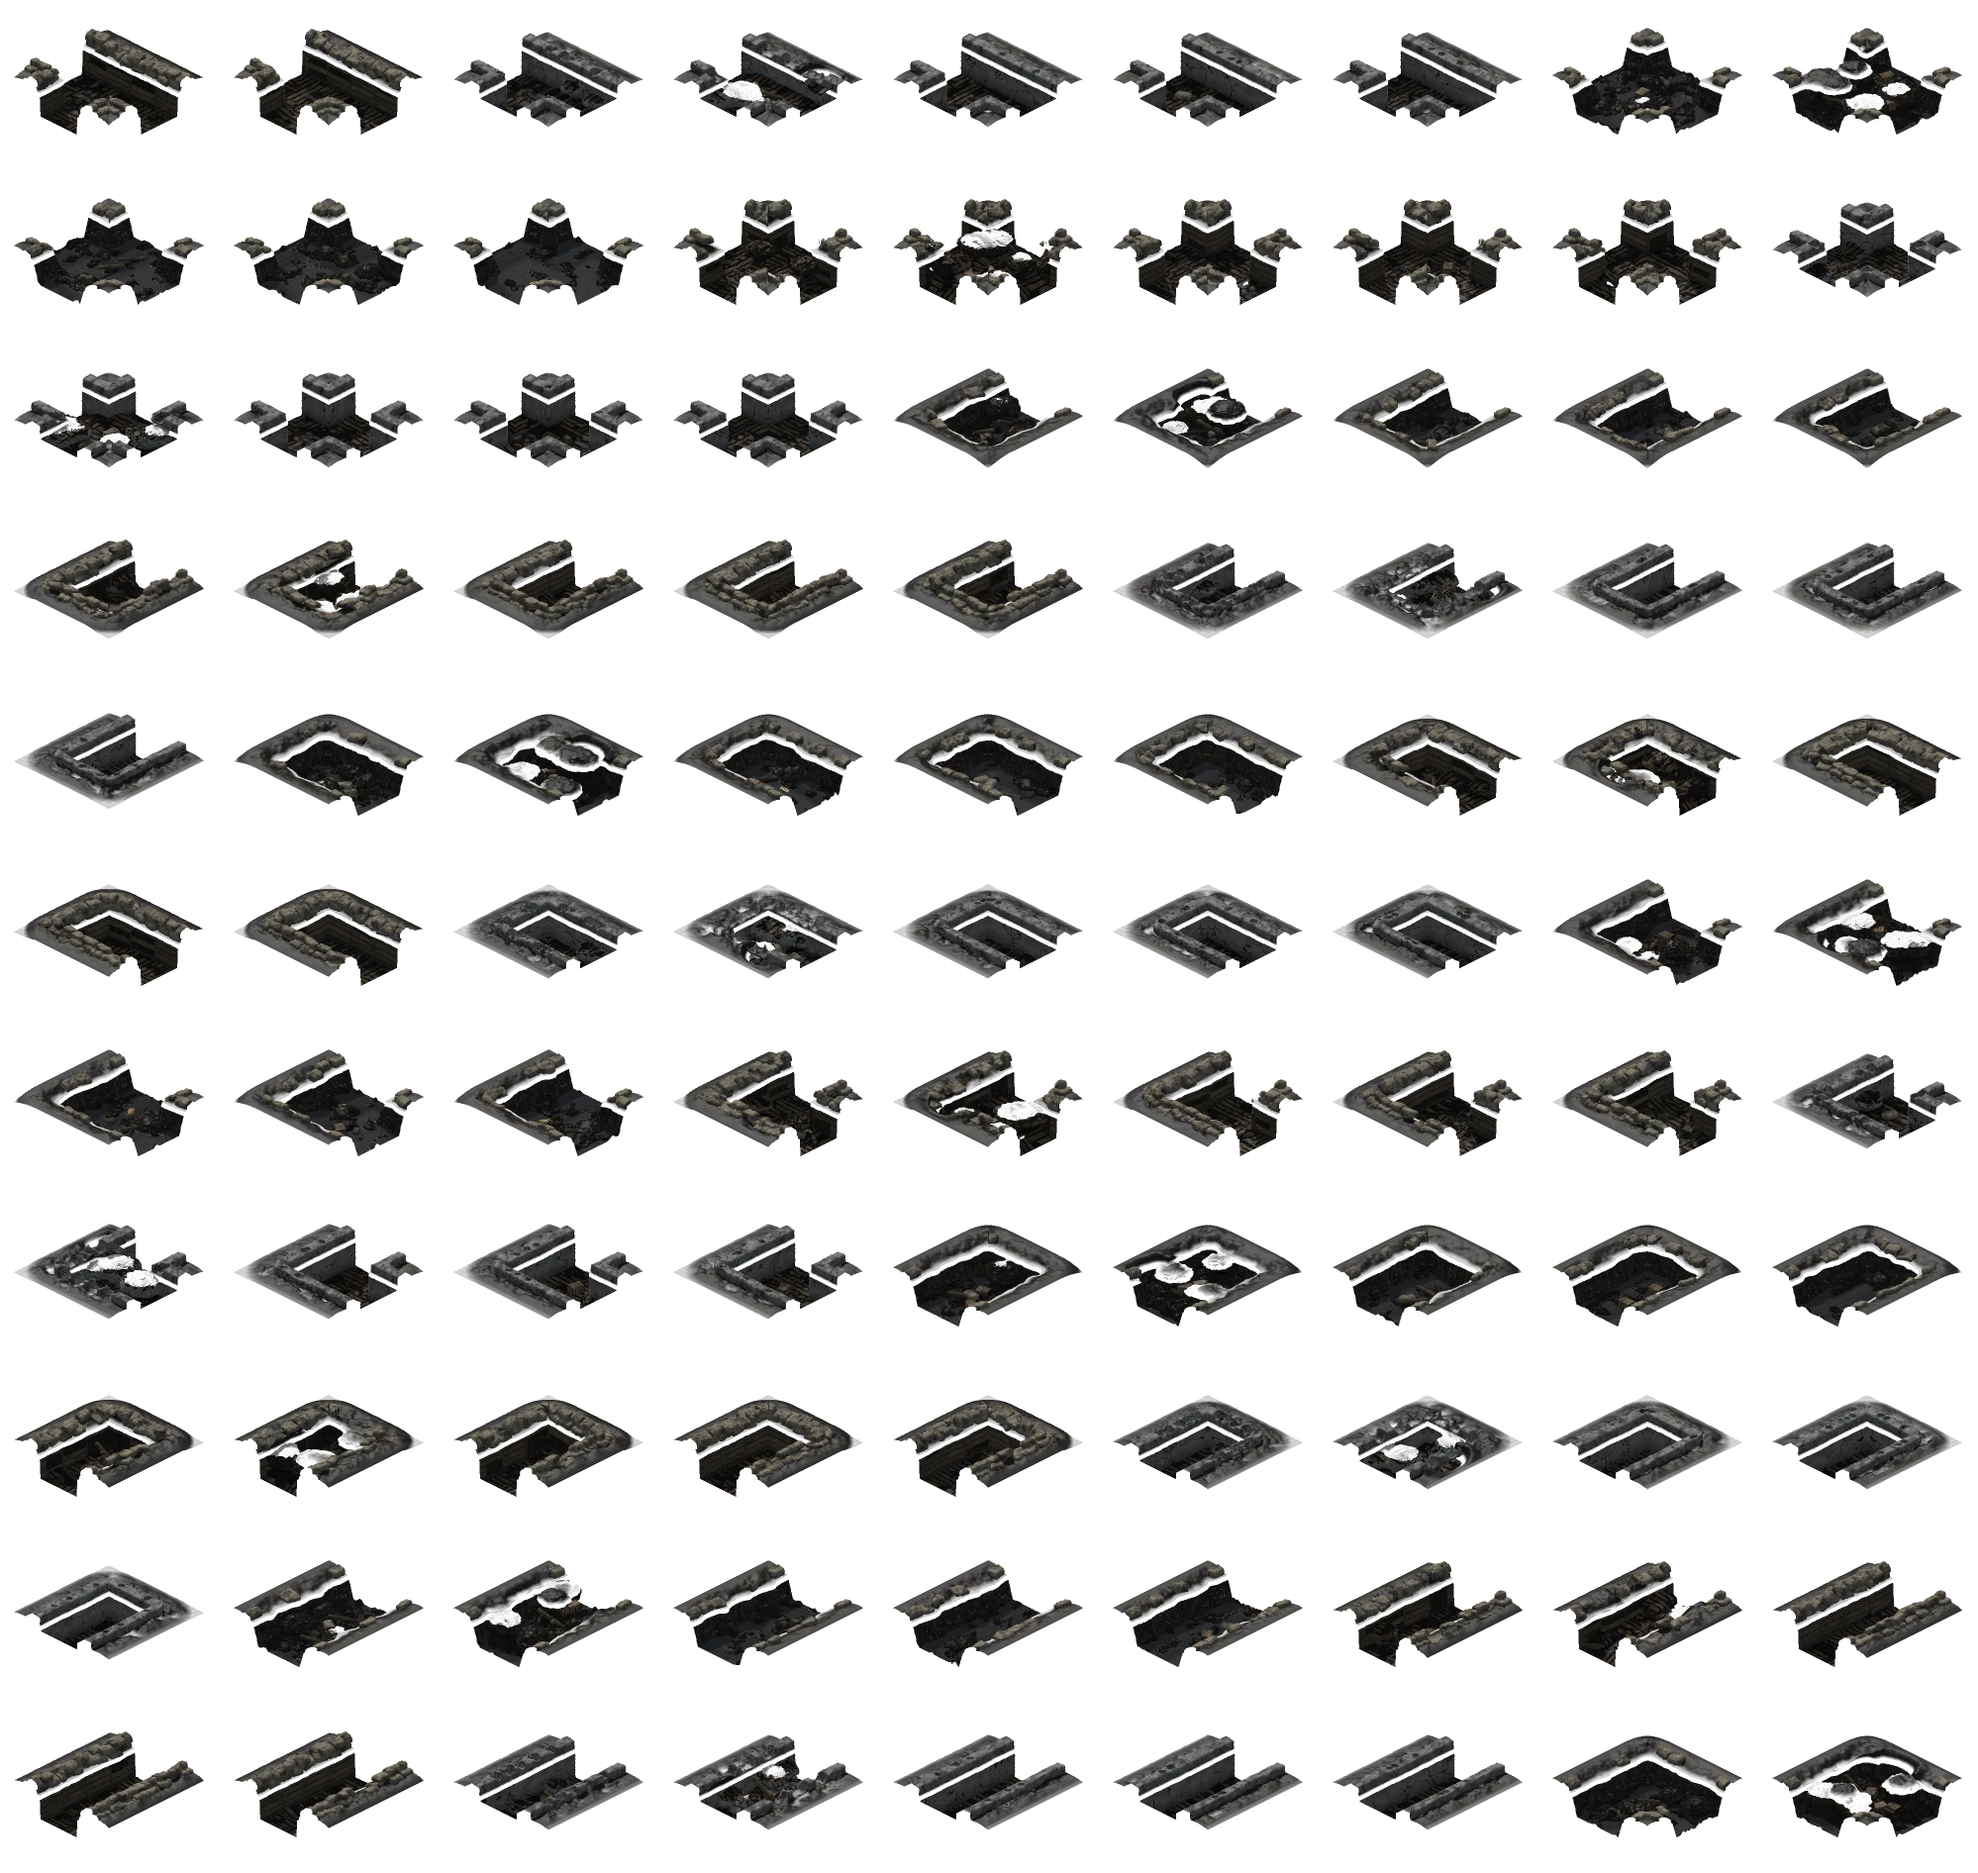
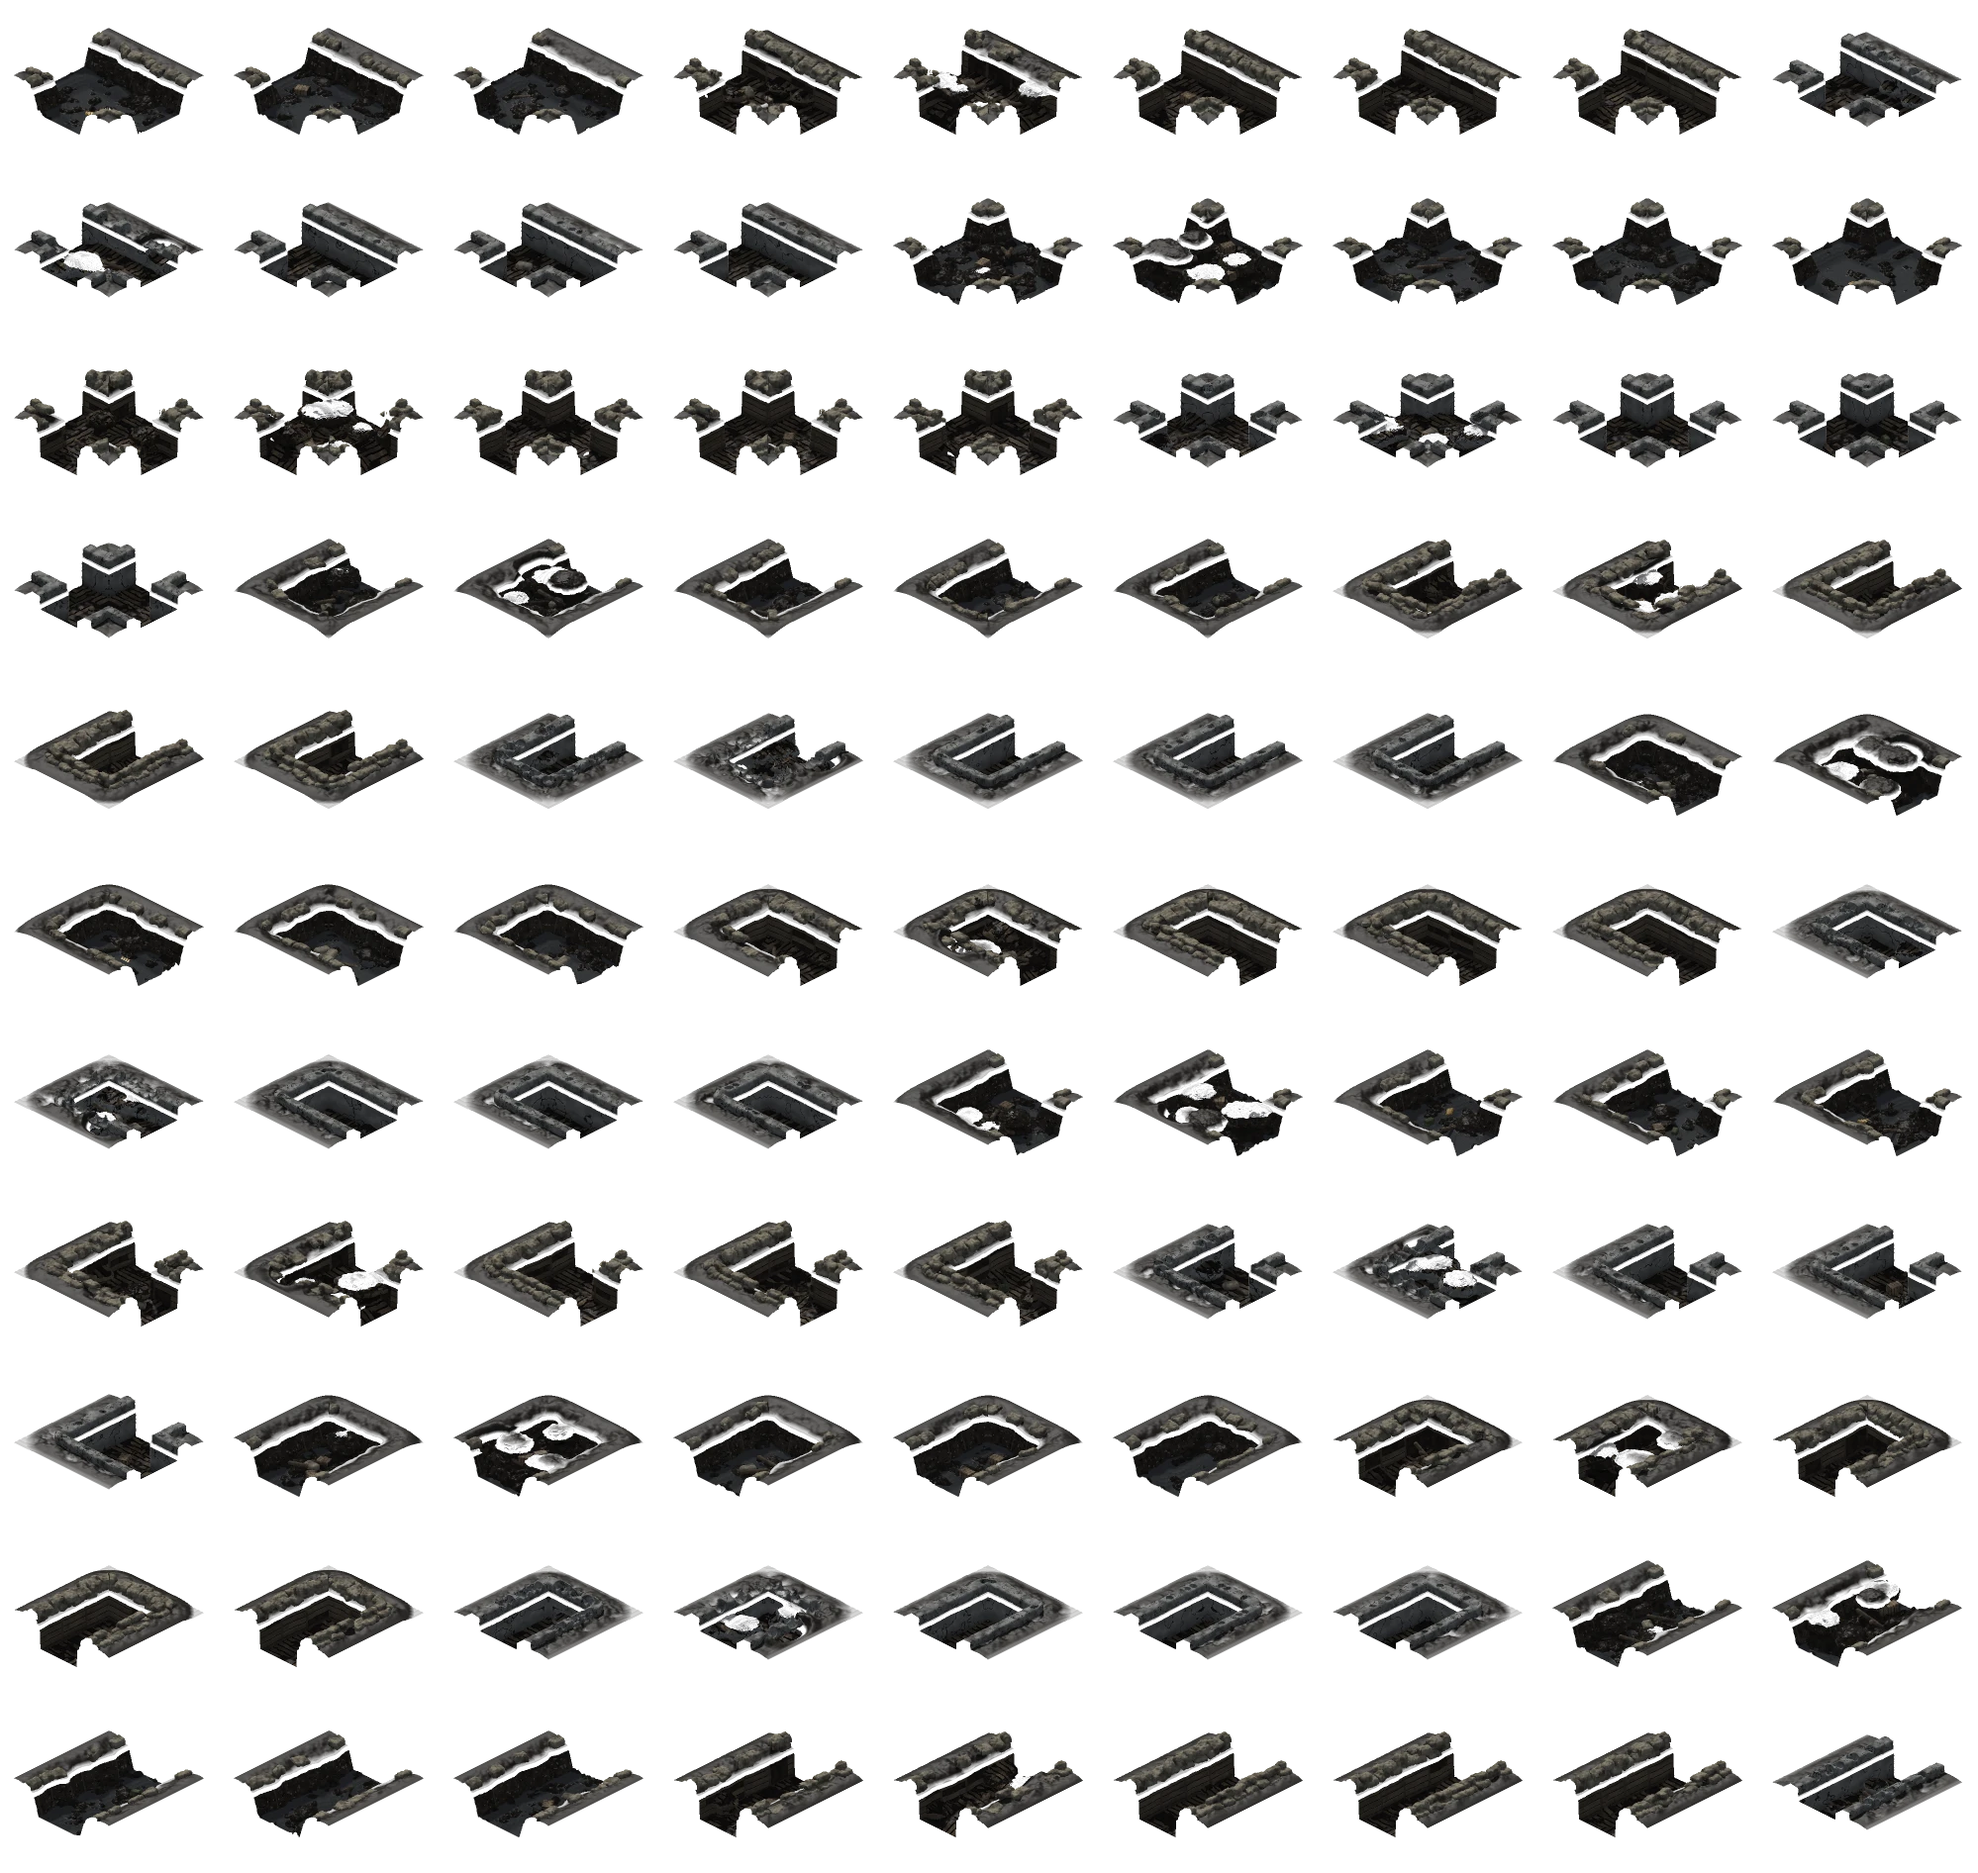
Silence the Guns: impassable snow-capped Alpine rock outcrops (pre-rendered), troops steer round them; the battle is set in the thaw
Claude-Session: https://claude.ai/code/session_01QRLYjet5i3xPK5hPmw42NL

diff --git a/src/campaign.js b/src/campaign.js
@@ -56,6 +56,38 @@ function relieve(state, team, nation) {
   return out;
 }
 
+/**
+ * Impassable rock outcrops (the Alpine karst): small clusters of 1-4 tiles, kept clear of trenches,
+ * wire, headquarters and troops, and apart from each other so men can always walk round them.
+ */
+function scatterRocks(state, count, seed) {
+  const { map } = state;
+  let r = seed >>> 0;
+  const rnd = () => ((r = (r * 1664525 + 1013904223) >>> 0) / 4294967296);
+  const near = (t, d, f) => { for (let y = t.y - d; y <= t.y + d; y++) for (let x = t.x - d; x <= t.x + d; x++) { const n = tileAt(map, x, y); if (n && f(n)) return true; } return false; };
+  const ok = (t) => t && !t.off && !t.trench && !t.wire && !t.rock && !t.build
+    && !near(t, 2, (n) => n.trench || n.wire) && !near(t, 3, (n) => n.rock)
+    && [map.hq[0], map.hq[1]].every((q) => Math.hypot(q.x - t.x, q.y - t.y) > 5)
+    && !state.units.some((u) => Math.hypot(u.x - t.x - 0.5, u.y - t.y - 0.5) < 2);
+  let placed = 0;
+  for (let tries = 0; tries < 2000 && placed < count; tries++) {
+    const t = map.tiles[Math.floor(rnd() * map.tiles.length)];
+    if (!ok(t)) continue;
+    const cluster = [t];
+    t.rock = 1 + Math.floor(rnd() * 4);
+    const extra = Math.floor(rnd() * 4);
+    for (let k = 0; k < extra; k++) {
+      const b = cluster[Math.floor(rnd() * cluster.length)], dir = [[1, 0], [-1, 0], [0, 1], [0, -1]][Math.floor(rnd() * 4)];
+      const n = tileAt(map, b.x + dir[0], b.y + dir[1]);
+      if (n && !n.off && !n.trench && !n.wire && !n.rock && !near(n, 1, (q) => q.trench || q.wire)) { n.rock = 1 + Math.floor(rnd() * 4); cluster.push(n); }
+    }
+    for (const c of cluster) { c.decor = null; c.crater = 0; }
+    placed++;
+  }
+  map.rocks = true;
+  map.dirty = true;
+}
+
 /** The trench tile of a team's line `off` tiles behind its front line in row y (front = 0, support = 7, reserve = 11). */
 function trenchBehind(map, team, y, off) {
   const f = frontLine(map, team), x0 = f[y] - teamDir(team) * off;
@@ -138,7 +170,7 @@ export const LEVELS = [
   },
   {
     id: 'isonzo', n: 2, title: 'Silence the Guns', place: 'The Isonzo, Italy', date: 'August 1916',
-    nations: ['italy', 'austria'], season: 'mud', start: 'west', startHour: 5,
+    nations: ['italy', 'austria'], season: 'thaw', start: 'west', startHour: 5,
     history: 'The Sixth Battle of the Isonzo. Five times the Italian army has thrown itself at the Austro-Hungarian line above the river, and five times it has been cut down by machine guns firing from concrete emplacements in the rock. This time the guns must be found and silenced first. Three nests command the whole sector; until they fall, no attack can cross the open ground. Your batteries have been given shells for only a handful of barrages: make every one count.',
     objectives: ['Silence all three machine-gun nests in the enemy lines.', 'Do it before nightfall on day 2.', 'Do not let the enemy take your headquarters.'],
     rules: ['The nests are concrete pillboxes, one in each of his three lines: front, support and reserve. Shellfire alone rarely finishes them: bombard, then send the infantry in while the crews are pinned.', 'The deeper nests lie beyond the reach of your guns from where they stand: take ground and bring the batteries forward.', 'Shells are rationed: 12 battery barrages for the whole battle.', 'The enemy holds deep wire and counter-attacks any trench he loses.'],
@@ -182,6 +214,7 @@ export const LEVELS = [
       const near = state.units.find((u) => u.team === ENEMY && u.type === 'mg' && !u.nest && Math.abs(u.y - nests[0].y) < 3);
       if (near) state.units = state.units.filter((u) => u !== near);
       state.bunkers = nests.map((u) => ({ id: u.id, x: u.x, y: u.y }));
+      scatterRocks(state, 18, 1916);
       map.dirty = true;
       state.campaign.nests = nests.map((u) => u.id);
       state.campaign.silenced = [];

diff --git a/src/game.js b/src/game.js
@@ -4,7 +4,7 @@ import {
   BASE_INCOME, CAPTURE_BONUS, START_RES, SUPPRESSION_DECAY, CHARGE_SPEED, MELEE_RANGE,
   WIRE_SLOW, BUILD_RADIUS_FRIENDLY, BUILD_RADIUS_ENEMY, DIG_RADIUS, DIG_RATE,
 } from './config.js';
-import { createMap, tileAt, frontLine, teamDir, clampToMap } from './map.js';
+import { createMap, tileAt, frontLine, teamDir, clampToMap, rockAt, offRock } from './map.js';
 import { createAI, updateAI } from './ai.js';
 
 let nextId = 1;
@@ -153,6 +153,7 @@ export function orderMove(state, units, tx, ty, kind = 'move') {
     let y = ty + (col - (rowCount - 1) / 2) * 1.25;
     ({ x, y } = clampToMap(x, y));
     if (wantTrench && n > 1) ({ x, y } = snapToTrench(map, x, y));
+    ({ x, y } = offRock(map, x, y)); // nobody can stand on the rocks
     u.order = { kind, x, y };
     u.digSite = null;
   });
@@ -344,6 +345,23 @@ function deliverSupplies(state) {
   }
 }
 
+/**
+ * Walking round the rocks: a unit with an outcrop ahead turns aside (always to the same side until the
+ * way ahead is clear again) by as little as it can. Outcrops are small and kept apart, so this is enough.
+ */
+function steer(map, u, mx, my) {
+  const clear = (ax, ay) => !rockAt(map, u.x + ax * 0.08, u.y + ay * 0.08) && !rockAt(map, u.x + ax * 0.3, u.y + ay * 0.3) && !rockAt(map, u.x + ax * 0.65, u.y + ay * 0.65);
+  if (clear(mx, my)) { u.detour = 0; return { mx, my }; }
+  for (const deg of [25, 50, 75, 100, 125, 150]) {
+    for (const sg of u.detour ? [u.detour] : [1, -1]) {
+      const a = (deg * Math.PI / 180) * sg, c = Math.cos(a), s = Math.sin(a);
+      const rx = mx * c - my * s, ry = mx * s + my * c;
+      if (clear(rx, ry)) { u.detour = sg; return { mx: rx, my: ry }; }
+    }
+  }
+  return { mx: -mx, my: -my };
+}
+
 function terrainFactor(tile) {
   if (!tile) return 1;
   let f = 1;
@@ -392,12 +410,18 @@ function updateUnit(state, u, dt) {
       if (u.order.kind === 'charge') u.chargeBonus = 3;
       u.order = null;
     } else {
-      u.x += (dx / d) * step; u.y += (dy / d) * step;
+      let mx = dx / d, my = dy / d;
+      const rocky = state.map.rocks ?? (state.map.rocks = state.map.tiles.some((q) => q.rock));
+      if (rocky) ({ mx, my } = steer(state.map, u, mx, my));
+      const nx = u.x + mx * step, ny = u.y + my * step;
+      if (!rocky || !rockAt(state.map, nx, ny)) { u.x = nx; u.y = ny; }
+      else if (!rockAt(state.map, nx, u.y)) u.x = nx; // slide along the face of the rock
+      else if (!rockAt(state.map, u.x, ny)) u.y = ny;
       ({ x: u.x, y: u.y } = clampToMap(u.x, u.y));
       u.moving = true;
-      u.hx = dx / d; u.hy = dy / d;
+      u.hx = mx; u.hy = my;
       u.roll += step;
-      const sx = dx - dy; // screen-space horizontal direction
+      const sx = mx - my; // screen-space horizontal direction
       if (Math.abs(sx) > 0.05) u.facing = Math.sign(sx);
     }
     u.setup = t.setup || 0;

diff --git a/src/render.js b/src/render.js
@@ -879,6 +879,7 @@ export class Renderer {
     // depth-sorted objects
     const objs = [];
     for (const t of state.map.tiles) if (t.decor) objs.push({ k: t.x + t.y + 1, kind: 'decor', t });
+    for (const t of state.map.tiles) if (t.rock) objs.push({ k: t.x + t.y + 1, kind: 'rock', t });
     for (const team of [PLAYER, ENEMY]) {
       const q = state.map.hq[team];
       objs.push({ k: q.x + q.y + 1, kind: 'hq', q, team });
@@ -890,6 +891,7 @@ export class Renderer {
     for (const o of objs) {
       if (o.kind === 'decor') this.drawDecor(ctx, o.t);
       else if (o.kind === 'hq') this.drawHQ(ctx, state, o.q, o.team);
+      else if (o.kind === 'rock') this.drawRock(ctx, o.t);
       else if (o.kind === 'bunker') this.drawBunker(ctx, o.b, o.u, state.time, ui.selected.has(o.b.id));
       else this.drawUnit(ctx, o.u, ui.selected.has(o.u.id), state.time);
     }
@@ -1214,6 +1216,16 @@ export class Renderer {
       ctx.fillStyle = S > 0.2 ? '#dde2e7' : '#6d6a64';
       ctx.fillRect(c.x - 10, c.y - 14, 6, 2); ctx.fillRect(c.x - 4, c.y - 8, 10, 1.5);
     }
+  }
+
+  /** An impassable snow-capped rock outcrop (pre-rendered), a little larger than its tile. */
+  drawRock(ctx, t) {
+    const h = hash(t.x * 3.7, t.y * 1.9), c = iso(t.x + 0.5 + (h - 0.5) * 0.15, t.y + 0.5 + (hash(t.y, t.x) - 0.5) * 0.15);
+    const snow = (this.S ?? 1) > 0.7 ? '_s' : '';
+    if (this.drawFrame(ctx, this.propGroup(), `rock${(t.rock - 1) % 4}${snow}`, c.x, c.y, 1.4 + h * 0.35, h > 0.5)) return;
+    ctx.fillStyle = '#77736b'; // fallback: a plain grey boulder
+    ctx.beginPath(); ctx.ellipse(c.x, c.y - 10, 22, 16, 0, 0, TAU); ctx.fill();
+    ctx.fillStyle = '#e6eaf0'; ctx.beginPath(); ctx.ellipse(c.x - 3, c.y - 20, 12, 6, 0, 0, TAU); ctx.fill();
   }
 
   /**

diff --git a/index.html b/index.html
@@ -12,15 +12,15 @@
       "./src/ai.js": "./src/ai.js?v=997b7ff3",
       "./src/atmosphere.js": "./src/atmosphere.js?v=1e92f7e8",
       "./src/audio.js": "./src/audio.js?v=bbae5c50",
-      "./src/campaign.js": "./src/campaign.js?v=cad7f603",
+      "./src/campaign.js": "./src/campaign.js?v=23bc5846",
       "./src/config.js": "./src/config.js?v=731fa34b",
-      "./src/game.js": "./src/game.js?v=8d0c4664",
+      "./src/game.js": "./src/game.js?v=ef4bf79c",
       "./src/main.js": "./src/main.js?v=99d55de3",
-      "./src/map.js": "./src/map.js?v=5f35f1d4",
+      "./src/map.js": "./src/map.js?v=90b75fa0",
       "./src/model-view.js": "./src/model-view.js?v=214a5b12",
       "./src/relief.js": "./src/relief.js?v=2441f819",
-      "./src/render.js": "./src/render.js?v=efc5dd42",
-      "./src/save.js": "./src/save.js?v=9330fc67",
+      "./src/render.js": "./src/render.js?v=6ec1b694",
+      "./src/save.js": "./src/save.js?v=33847899",
       "./src/tutorial.js": "./src/tutorial.js?v=e4dedf11",
       "./src/ui.js": "./src/ui.js?v=69c9f3cb",
       "./src/voice.js": "./src/voice.js?v=f91e2bc2"

diff --git a/src/map.js b/src/map.js
@@ -40,6 +40,21 @@ export function rowsOf(x, inset = 0) {
   return half < 0 ? null : [MID - half, MID + half];
 }
 
+/** True where an impassable rock outcrop stands. */
+export function rockAt(map, x, y) {
+  const t = tileAt(map, x, y);
+  return !!(t && t.rock);
+}
+/** The nearest point off the rocks (the point itself if it is clear). */
+export function offRock(map, x, y) {
+  if (!rockAt(map, x, y)) return { x, y };
+  for (let r = 1; r <= 4; r++) for (let k = 0; k < 8 * r; k++) {
+    const a = (k / (8 * r)) * Math.PI * 2, px = x + Math.cos(a) * r * 0.75, py = y + Math.sin(a) * r * 0.75;
+    if (tileAt(map, px, py) && !rockAt(map, px, py)) return { x: px, y: py };
+  }
+  return { x, y };
+}
+
 export function tileAt(map, x, y) {
   const ix = Math.floor(x), iy = Math.floor(y);
   if (ix < 0 || iy < 0 || ix >= map.w || iy >= map.h) return null;

diff --git a/src/save.js b/src/save.js
@@ -6,7 +6,7 @@ import { setWestTeam } from './map.js';
 import { setNextId } from './game.js';
 
 export const SAVE_VERSION = 1;
-const TILE_KEYS = ['mud', 'shade', 'crater', 'trench', 'owner', 'origOwner', 'wire', 'origWire', 'build', 'decor', 'dmg', 'decorHp', 'splinters'];
+const TILE_KEYS = ['mud', 'shade', 'crater', 'trench', 'owner', 'origOwner', 'wire', 'origWire', 'build', 'decor', 'dmg', 'decorHp', 'splinters', 'rock'];
 
 /** The battle as a JSON string. */
 export function serialize(state) {
